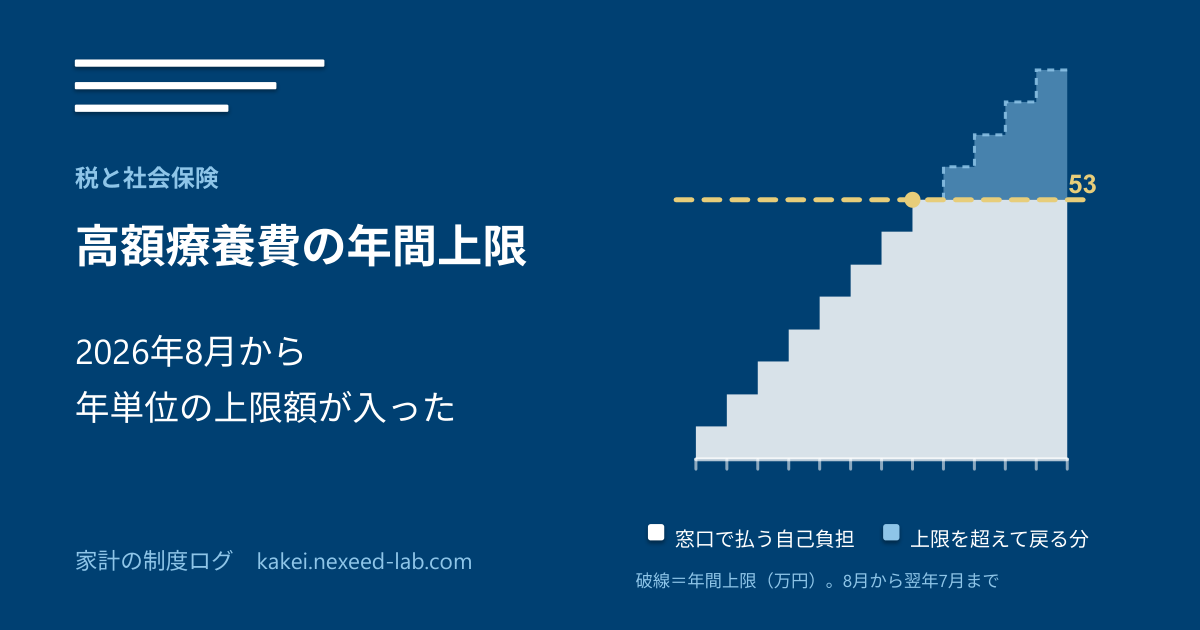
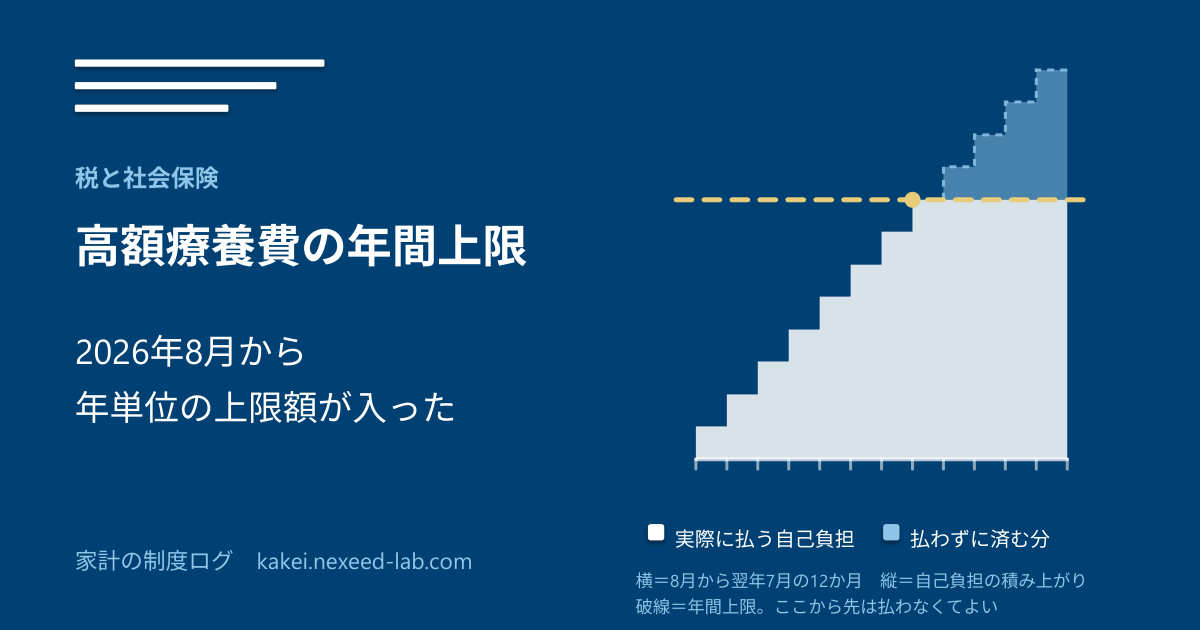
アイキャッチから意味の分からない数字を外し、軸の説明を図の外に入れた

diff --git a/tools/article-images/build.py b/tools/article-images/build.py
@@ -100,8 +100,9 @@ SLIDES = [
         "title": "高額療養費の年間上限",
         "title_size": 34,
         "subtitle": "2026年8月から\n年単位の上限額が入った",
-        "legend": [("窓口で払う自己負担", WHITE), ("上限を超えて戻る分", AZURE)],
-        "note": "破線＝年間上限（万円）。8月から翌年7月まで",
+        "legend": [("実際に払う自己負担", WHITE), ("払わずに済む分", AZURE)],
+        # 図に数字は入れない。軸が何かだけを書く（金額は本文の表が持つ）。
+        "note": "横＝8月から翌年7月の12か月　縦＝自己負担の積み上がり\n破線＝年間上限。ここから先は払わなくてよい",
     },
     {
         # 記事に eyecatch が無いときの既定の og:image（site.json の defaultOgImage）
@@ -220,9 +221,10 @@ def build_pptx(png_paths):
                      [label], 15, color=WHITE)
             x += Inches(2.45)
 
+        # note は改行で複数行にできる。図の軸が何かを書くために2行必要になった。
         if spec.get("note"):
             add_text(slide, Inches(6.62), Inches(5.88), Inches(5.21), Inches(0.3),
-                     [spec["note"]], 13, color=AZURE)
+                     spec["note"].split(chr(10)), 13, color=AZURE)
 
     prs.save(PPTX)
     return PPTX
